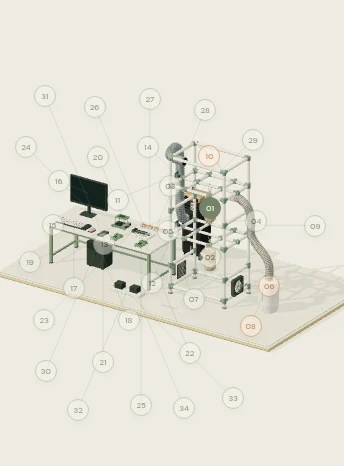
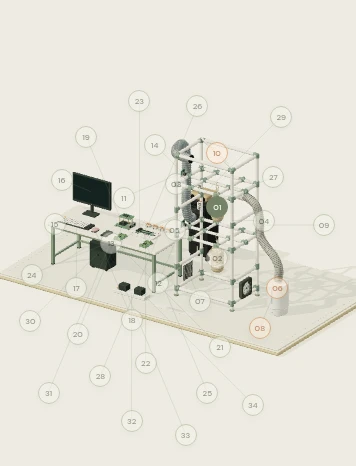
Reduce page gutters and align sections while preserving notebook size

diff --git a/src/styles/global.css b/src/styles/global.css
@@ -1,5 +1,5 @@
-:root{--paper:#f6f3eb;--paper-deep:#eeece2;--ink:#172b29;--muted:#6f756d;--olive:#738060;--orange:#ce5b39;--line:#d9dcd0;--font-body:'DM Sans',sans-serif;--font-display:'Newsreader',Georgia,serif;--page-pad:clamp(22px,5vw,84px);font-family:var(--font-body);color:var(--ink);background:var(--paper);font-synthesis:none;text-rendering:optimizeLegibility;-webkit-font-smoothing:antialiased;scroll-behavior:smooth;scroll-padding-top:105px}*{box-sizing:border-box}body{margin:0}button,input,select,textarea{font:inherit}button,a{-webkit-tap-highlight-color:transparent}button{color:inherit}a{color:inherit}button{cursor:pointer}button:disabled{cursor:default}button,summary,a{touch-action:manipulation}button:focus-visible,a:focus-visible,summary:focus-visible{outline:2px solid var(--orange);outline-offset:5px}img,svg{max-width:100%}img{display:block}h1,h2,h3,p{margin:0}h1,h2,h3{font-weight:400}h1,h2{font-family:var(--font-display)}button{border:0}::selection{background:#d8ddc7;color:var(--ink)}[hidden]{display:none!important}.sr-only{position:absolute;width:1px;height:1px;padding:0;margin:-1px;overflow:hidden;clip:rect(0,0,0,0);white-space:nowrap;border:0}.skip-link{position:fixed;z-index:100;top:10px;left:20px;transform:translateY(-160%);background:var(--ink);color:white;padding:12px 20px;border-radius:5px}.skip-link:focus{transform:translateY(0)}.eyebrow{font-size:10px;font-weight:600;letter-spacing:2.4px;line-height:1.5;text-transform:uppercase}.eyebrow-dot{display:inline-block;width:6px;height:6px;background:var(--orange);border-radius:50%;margin:0 9px 1px 0}.section-wrap{width:min(100%,1380px);padding-left:var(--page-pad);padding-right:var(--page-pad);margin:auto}.button{display:inline-flex;align-items:center;justify-content:center;gap:18px;min-height:47px;padding:13px 22px;text-decoration:none;font-size:12px;font-weight:500;border-radius:3px;line-height:1.5;transition:background .2s,transform .2s,color .2s}.button svg{flex:none;width:16px;height:16px}.button:hover{transform:translateY(-2px)}.button-dark{background:var(--ink);color:var(--paper);border:1px solid var(--ink)}.button-dark:hover{background:#304842}.button-outline{background:transparent;border:1px solid #b5bdb0}.button-outline:hover{background:#e9ecdf}.text-link{font-size:12px;font-weight:500;display:inline-flex;align-items:center;gap:12px;text-decoration:none;padding-block:10px;border-bottom:1px solid currentColor}.icon-button{background:transparent;border:1px solid var(--line);display:inline-flex;align-items:center;justify-content:center;width:38px;height:38px;border-radius:50%;flex:none}.site-header{position:sticky;top:0;z-index:30;border-bottom:1px solid var(--line);background:var(--paper)}.header-inner{height:91px;max-width:1480px;margin:auto;padding:0 var(--page-pad);display:flex;align-items:center;justify-content:space-between;gap:32px}.desktop-nav{display:flex;gap:28px;align-items:center}.desktop-nav a{font-size:11px;text-decoration:none;color:#4f5e53;position:relative;padding:16px 0}.desktop-nav a:after{content:'';position:absolute;left:0;right:100%;bottom:9px;height:1px;background:var(--orange);transition:right .25s}.desktop-nav a:hover:after{right:0}.header-grafana{font-size:10px;min-height:41px;padding:10px 15px;gap:12px}.menu-toggle{display:none}.mobile-nav{padding:8px var(--page-pad) 24px;border-top:1px solid var(--line)}.mobile-nav>a{display:flex;align-items:center;justify-content:space-between;padding:15px 0;text-decoration:none;border-bottom:1px solid var(--line);font-size:15px}.mobile-nav .button{margin-top:20px;width:100%}.site-footer{padding:44px var(--page-pad) 20px;border-top:1px solid var(--line);max-width:1480px;margin:auto}.footer-top{display:flex;align-items:center;justify-content:space-between;gap:30px;padding-bottom:40px}.footer-top p{font-family:var(--font-display);font-size:26px;font-style:italic;color:var(--olive)}.back-top{display:flex;align-items:center;gap:16px;font-size:11px;text-decoration:none}.footer-bottom{border-top:1px solid var(--line);padding-top:20px;display:flex;gap:25px;justify-content:space-between;color:var(--muted);font-size:9px}.resource-dialog{width:min(480px,calc(100% - 32px));border:1px solid var(--line);padding:45px;background:var(--paper);color:var(--ink);border-radius:8px;box-shadow:0 25px 100px #0003}.resource-dialog::backdrop{background:#10292488;backdrop-filter:blur(4px)}.dialog-close{position:absolute;top:14px;right:14px}.resource-dialog h2{font-size:42px;line-height:1.05;margin:20px 0}.resource-dialog p{font-size:14px;line-height:1.7}.resource-dialog .dialog-note{font-size:12px;color:var(--muted);margin:16px 0 25px}.page-reveal{opacity:1}.js-motion .page-reveal{will-change:transform,opacity}@media(min-width:1600px){:root{--page-pad:75px}}@media(max-width:1080px){.desktop-nav{gap:18px}.header-inner{gap:20px}.brand{font-size:16px!important}.header-grafana{font-size:9px}}@media(max-width:850px){.desktop-nav,.header-grafana{display:none}.header-inner{height:76px}.menu-toggle{display:inline-flex}.footer-top{flex-wrap:wrap}.footer-top p{font-size:23px}.footer-bottom{flex-wrap:wrap;gap:12px 25px}}@media(max-width:500px){.footer-top p{width:100%;order:3}.footer-top{gap:24px;padding-bottom:26px}.footer-bottom{display:grid;gap:10px}.resource-dialog{padding:38px 25px}}@media(prefers-reduced-motion:reduce){:root{scroll-behavior:auto}*,*:before,*:after{animation-duration:.01ms!important;animation-iteration-count:1!important;transition-duration:.01ms!important}.js-motion .page-reveal{will-change:auto}}
+:root{--paper:#f6f3eb;--paper-deep:#eeece2;--ink:#172b29;--muted:#6f756d;--olive:#738060;--orange:#ce5b39;--line:#d9dcd0;--font-body:'DM Sans',sans-serif;--font-display:'Newsreader',Georgia,serif;--page-pad:clamp(16px,2.5vw,48px);--page-width:1800px;--notebook-pad:clamp(22px,5vw,84px);font-family:var(--font-body);color:var(--ink);background:var(--paper);font-synthesis:none;text-rendering:optimizeLegibility;-webkit-font-smoothing:antialiased;scroll-behavior:smooth;scroll-padding-top:105px}*{box-sizing:border-box}body{margin:0}button,input,select,textarea{font:inherit}button,a{-webkit-tap-highlight-color:transparent}button{color:inherit}a{color:inherit}button{cursor:pointer}button:disabled{cursor:default}button,summary,a{touch-action:manipulation}button:focus-visible,a:focus-visible,summary:focus-visible{outline:2px solid var(--orange);outline-offset:5px}img,svg{max-width:100%}img{display:block}h1,h2,h3,p{margin:0}h1,h2,h3{font-weight:400}h1,h2{font-family:var(--font-display)}button{border:0}::selection{background:#d8ddc7;color:var(--ink)}[hidden]{display:none!important}.sr-only{position:absolute;width:1px;height:1px;padding:0;margin:-1px;overflow:hidden;clip:rect(0,0,0,0);white-space:nowrap;border:0}.skip-link{position:fixed;z-index:100;top:10px;left:20px;transform:translateY(-160%);background:var(--ink);color:white;padding:12px 20px;border-radius:5px}.skip-link:focus{transform:translateY(0)}.eyebrow{font-size:10px;font-weight:600;letter-spacing:2.4px;line-height:1.5;text-transform:uppercase}.eyebrow-dot{display:inline-block;width:6px;height:6px;background:var(--orange);border-radius:50%;margin:0 9px 1px 0}.section-wrap{width:min(var(--page-width),calc(100% - 2 * var(--page-pad)));padding-inline:0;margin:auto}.button{display:inline-flex;align-items:center;justify-content:center;gap:18px;min-height:47px;padding:13px 22px;text-decoration:none;font-size:12px;font-weight:500;border-radius:3px;line-height:1.5;transition:background .2s,transform .2s,color .2s}.button svg{flex:none;width:16px;height:16px}.button:hover{transform:translateY(-2px)}.button-dark{background:var(--ink);color:var(--paper);border:1px solid var(--ink)}.button-dark:hover{background:#304842}.button-outline{background:transparent;border:1px solid #b5bdb0}.button-outline:hover{background:#e9ecdf}.text-link{font-size:12px;font-weight:500;display:inline-flex;align-items:center;gap:12px;text-decoration:none;padding-block:10px;border-bottom:1px solid currentColor}.icon-button{background:transparent;border:1px solid var(--line);display:inline-flex;align-items:center;justify-content:center;width:38px;height:38px;border-radius:50%;flex:none}.site-header{position:sticky;top:0;z-index:30;border-bottom:1px solid var(--line);background:var(--paper)}.header-inner{height:91px;max-width:1480px;margin:auto;padding:0 var(--page-pad);display:flex;align-items:center;justify-content:space-between;gap:32px}.desktop-nav{display:flex;gap:28px;align-items:center}.desktop-nav a{font-size:11px;text-decoration:none;color:#4f5e53;position:relative;padding:16px 0}.desktop-nav a:after{content:'';position:absolute;left:0;right:100%;bottom:9px;height:1px;background:var(--orange);transition:right .25s}.desktop-nav a:hover:after{right:0}.header-grafana{font-size:10px;min-height:41px;padding:10px 15px;gap:12px}.menu-toggle{display:none}.mobile-nav{padding:8px var(--page-pad) 24px;border-top:1px solid var(--line)}.mobile-nav>a{display:flex;align-items:center;justify-content:space-between;padding:15px 0;text-decoration:none;border-bottom:1px solid var(--line);font-size:15px}.mobile-nav .button{margin-top:20px;width:100%}.site-footer{padding:44px var(--page-pad) 20px;border-top:1px solid var(--line);max-width:1480px;margin:auto}.footer-top{display:flex;align-items:center;justify-content:space-between;gap:30px;padding-bottom:40px}.footer-top p{font-family:var(--font-display);font-size:26px;font-style:italic;color:var(--olive)}.back-top{display:flex;align-items:center;gap:16px;font-size:11px;text-decoration:none}.footer-bottom{border-top:1px solid var(--line);padding-top:20px;display:flex;gap:25px;justify-content:space-between;color:var(--muted);font-size:9px}.resource-dialog{width:min(480px,calc(100% - 32px));border:1px solid var(--line);padding:45px;background:var(--paper);color:var(--ink);border-radius:8px;box-shadow:0 25px 100px #0003}.resource-dialog::backdrop{background:#10292488;backdrop-filter:blur(4px)}.dialog-close{position:absolute;top:14px;right:14px}.resource-dialog h2{font-size:42px;line-height:1.05;margin:20px 0}.resource-dialog p{font-size:14px;line-height:1.7}.resource-dialog .dialog-note{font-size:12px;color:var(--muted);margin:16px 0 25px}.page-reveal{opacity:1}.js-motion .page-reveal{will-change:transform,opacity}@media(min-width:1600px){:root{--notebook-pad:75px}}@media(max-width:1080px){.desktop-nav{gap:18px}.header-inner{gap:20px}.brand{font-size:16px!important}.header-grafana{font-size:9px}}@media(max-width:850px){.desktop-nav,.header-grafana{display:none}.header-inner{height:76px}.menu-toggle{display:inline-flex}.footer-top{flex-wrap:wrap}.footer-top p{font-size:23px}.footer-bottom{flex-wrap:wrap;gap:12px 25px}}@media(max-width:500px){.footer-top p{width:100%;order:3}.footer-top{gap:24px;padding-bottom:26px}.footer-bottom{display:grid;gap:10px}.resource-dialog{padding:38px 25px}}@media(prefers-reduced-motion:reduce){:root{scroll-behavior:auto}*,*:before,*:after{animation-duration:.01ms!important;animation-iteration-count:1!important;transition-duration:.01ms!important}.js-motion .page-reveal{will-change:auto}}
 
 .header-resources{display:flex;gap:10px;align-items:center;flex-shrink:0}.header-github{font-size:10px;min-height:41px;padding:10px 13px;gap:9px}.header-github>svg:last-child{display:none}@media(min-width:851px) and (max-width:1200px){.header-inner{padding-inline:24px;gap:16px}.desktop-nav{gap:15px}.header-resources{gap:7px}.header-grafana{padding-inline:10px}.header-github{padding-inline:10px}}@media(max-width:1000px){.desktop-nav,.header-resources{display:none}.menu-toggle{display:inline-flex}}
 
-.header-inner{width:min(1600px,calc(100% - 2 * var(--page-pad)));max-width:none;padding-inline:0}
+.header-inner{width:min(var(--page-width),calc(100% - 2 * var(--page-pad)));max-width:none;padding-inline:0}
